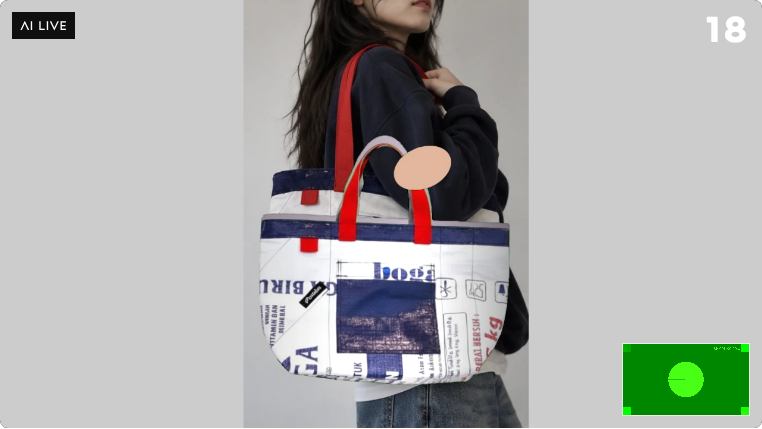
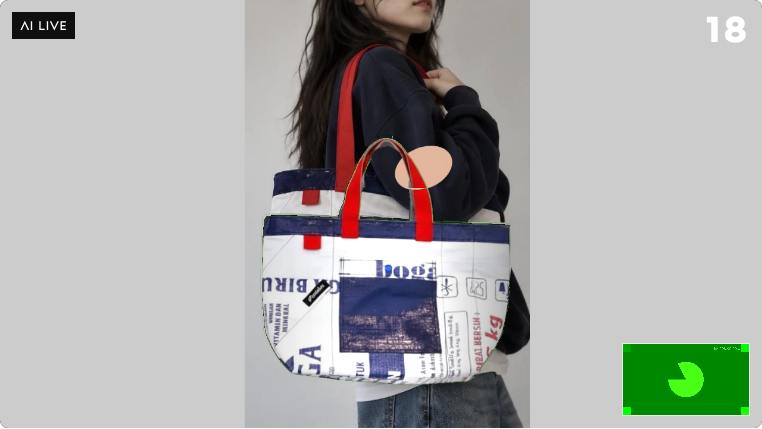
Design mapping: catch dull AI greens, keep the real product shape (#67)
- Green is found by hue/saturation/value, so a dull or pale AI green
  still counts (skin and denim never do).
- The real product is drawn at its own proportions inside the green box
  (bottom-aligned), so the shape on screen is the product's; green the AI
  drew outside that shape is filled from the colours beside it, eased down
  each column; hands in front stay in front.
- The green prompt also gives the product's size and written shape.

Claude-Session: https://claude.ai/code/session_015tYqeF95fcTMgYoMnwU8HY

diff --git a/src/v3/greenMap.ts b/src/v3/greenMap.ts
@@ -28,11 +28,20 @@ export function greenReference(product: HTMLCanvasElement, size = 640): Promise<
   return new Promise((ok, fail) => c.toBlob((b) => (b ? ok(b) : fail(new Error('reference'))), 'image/jpeg', 0.92));
 }
 
-/** How green a pixel is (0 = not, 1 = clearly chroma green), from its RGB. */
+/**
+ * How green a pixel is (0 = not, 1 = clearly the chroma green the AI was asked for). Hue/saturation
+ * based, so a dull or pale AI green still counts; skin (red-led) and denim (blue-led) never do.
+ */
 function greenness(r: number, g: number, b: number) {
-  const m = Math.max(r, b);
-  if (g < 60 || g - m < 30) return 0;
-  return Math.min(1, (g - m - 30) / 50);
+  if (g < r || g < b) return 0;
+  const mn = Math.min(r, b);
+  const c = g - mn;
+  if (c < 18) return 0;
+  const hue = 60 * ((b - r) / c) + 120; // 60 (yellow-green) … 180 (cyan-green)
+  if (hue < 72 || hue > 168) return 0;
+  const sat = c / g;
+  const val = g / 255;
+  return Math.min(1, Math.max(0, (sat - 0.22) / 0.18)) * Math.min(1, Math.max(0, (val - 0.14) / 0.14));
 }
 
 export interface DesignMapper {
@@ -40,20 +49,18 @@ export interface DesignMapper {
   draw(ctx: CanvasRenderingContext2D, src: CanvasImageSource, W: number, H: number): boolean;
 }
 
-/** A mapper for one product image (keyed, transparent background). */
+/**
+ * A mapper for one product image (keyed, transparent background). The product is drawn at its own
+ * proportions where the AI put the green bag, so the shape on screen is the real one; green the AI
+ * drew outside that shape is filled from the colours beside it; anything in front of the bag (a hand)
+ * stays in front.
+ */
 export function createDesignMapper(product: HTMLCanvasElement): DesignMapper {
-  // The product's dominant colour, for green the AI drew just outside the product's own outline.
-  const fill = (() => {
-    const d = product.getContext('2d', { willReadFrequently: true })!.getImageData(0, 0, product.width, product.height).data;
-    let r = 0, g = 0, b = 0, n = 0;
-    for (let i = 0; i < d.length; i += 16) if (d[i + 3] > 200) { r += d[i]; g += d[i + 1]; b += d[i + 2]; n++; }
-    return n ? [r / n, g / n, b / n] : [200, 200, 200];
-  })();
   const small = document.createElement('canvas');
   const sctx = small.getContext('2d', { willReadFrequently: true })!;
   const fit = document.createElement('canvas');
   const fctx = fit.getContext('2d', { willReadFrequently: true })!;
-  // Smoothed box so the design does not shake when the green edge flickers.
+  const aspect = product.width / product.height;
   let box: { x: number; y: number; w: number; h: number } | null = null;
   let miss = 0;
 
@@ -73,18 +80,17 @@ export function createDesignMapper(product: HTMLCanvasElement): DesignMapper {
       for (let y = 0; y < sh; y++)
         for (let x = 0; x < sw; x++) {
           const i = (y * sw + x) * 4;
-          if (greenness(sp[i], sp[i + 1], sp[i + 2]) > 0.3) {
+          if (greenness(sp[i], sp[i + 1], sp[i + 2]) > 0.35) {
             cols[x]++;
             rows[y]++;
             total++;
           }
         }
-      if (total < 40) {
+      if (total < 30) {
         if (++miss > 6) box = null;
         return false;
       }
       miss = 0;
-      // Trim 0.5% of green from each side so stray specks do not stretch the box (thin handles stay in).
       const edge = (arr: number[], from: boolean) => {
         let acc = 0;
         const lim = total * 0.005;
@@ -94,52 +100,109 @@ export function createDesignMapper(product: HTMLCanvasElement): DesignMapper {
       };
       const kx = W / sw;
       const ky = H / sh;
-      const next = { x: edge(cols, true) * kx, y: edge(rows, true) * ky, w: (edge(cols, false) - edge(cols, true) + 1) * kx, h: (edge(rows, false) - edge(rows, true) + 1) * ky };
+      const gx0 = edge(cols, true), gx1 = edge(cols, false), gy0 = edge(rows, true), gy1 = edge(rows, false);
+      const next = { x: gx0 * kx, y: gy0 * ky, w: (gx1 - gx0 + 1) * kx, h: (gy1 - gy0 + 1) * ky };
       const e = 0.35;
       box = box ? { x: box.x + (next.x - box.x) * e, y: box.y + (next.y - box.y) * e, w: box.w + (next.w - box.w) * e, h: box.h + (next.h - box.h) * e } : next;
 
-      // 2 · Full resolution inside the box (grown a little for edges).
-      const pad = Math.max(4, box.w * 0.06);
-      const x0 = Math.max(0, Math.floor(box.x - pad));
-      const y0 = Math.max(0, Math.floor(box.y - pad));
-      const x1 = Math.min(W, Math.ceil(box.x + box.w + pad));
-      const y1 = Math.min(H, Math.ceil(box.y + box.h + pad));
+      // 2 · The real product at its own proportions, fitted inside the green box (bottom-aligned: bags hang).
+      let pw = box.w;
+      let ph = pw / aspect;
+      if (ph > box.h) {
+        ph = box.h;
+        pw = ph * aspect;
+      }
+      const px = box.x + (box.w - pw) / 2;
+      const py = box.y + box.h - ph;
+      const pad = Math.max(6, box.w * 0.08);
+      const x0 = Math.max(0, Math.floor(Math.min(box.x, px) - pad));
+      const y0 = Math.max(0, Math.floor(Math.min(box.y, py) - pad));
+      const x1 = Math.min(W, Math.ceil(Math.max(box.x + box.w, px + pw) + pad));
+      const y1 = Math.min(H, Math.ceil(Math.max(box.y + box.h, py + ph) + pad));
       const bw = x1 - x0;
       const bh = y1 - y0;
       if (bw < 8 || bh < 8) return false;
       const frame = ctx.getImageData(x0, y0, bw, bh);
       const fp = frame.data;
-      // The product laid over the green box itself.
+      const orig = new Uint8ClampedArray(fp);
       fit.width = bw;
       fit.height = bh;
       fctx.clearRect(0, 0, bw, bh);
-      fctx.drawImage(product, box.x - x0, box.y - y0, box.w, box.h);
+      fctx.drawImage(product, px - x0, py - y0, pw, ph);
       const pp = fctx.getImageData(0, 0, bw, bh).data;
-      // Light and shadow: the green channel relative to its average over the bag.
+
+      // Light and shadow from the green, and per row the span the AI's bag covers.
       let gs = 0;
       let gn = 0;
-      for (let i = 0; i < fp.length; i += 4) if (greenness(fp[i], fp[i + 1], fp[i + 2]) > 0.5) { gs += fp[i + 1]; gn++; }
-      const gMean = gn ? gs / gn : 200;
-      for (let i = 0; i < fp.length; i += 4) {
-        const r = fp[i];
-        const g = fp[i + 1];
-        const b = fp[i + 2];
-        const a = greenness(r, g, b);
-        if (a <= 0) {
-          // Green spill on edges (hands, outline): pull green down to the other channels.
-          const m = Math.max(r, b);
-          if (g > m + 12) fp[i + 1] = m + 12;
-          continue;
+      const gmask = new Float32Array(bw * bh);
+      const spanL = new Int32Array(bh).fill(-1);
+      const spanR = new Int32Array(bh).fill(-1);
+      for (let y = 0; y < bh; y++)
+        for (let x = 0; x < bw; x++) {
+          const i = (y * bw + x) * 4;
+          const a = greenness(orig[i], orig[i + 1], orig[i + 2]);
+          gmask[y * bw + x] = a;
+          if (a > 0.5) {
+            gs += orig[i + 1];
+            gn++;
+            if (spanL[y] < 0) spanL[y] = x;
+            spanR[y] = x;
+          }
         }
-        const shade = Math.max(0.5, Math.min(1.3, g / gMean));
-        const pa = pp[i + 3] / 255;
-        // Inside the green but outside the product shape (the AI drew a slightly different outline): the product's main colour.
-        const pr = pp[i] * pa + fill[0] * (1 - pa);
-        const pg = pp[i + 1] * pa + fill[1] * (1 - pa);
-        const pb = pp[i + 2] * pa + fill[2] * (1 - pa);
-        fp[i] = Math.min(255, r * (1 - a) + pr * shade * a);
-        fp[i + 1] = Math.min(255, Math.max(r, b) * (1 - a) + pg * shade * a);
-        fp[i + 2] = Math.min(255, b * (1 - a) + pb * shade * a);
+      const gMean = gn ? gs / gn : 200;
+      // Fill colours are eased down each column so the patch reads as background, not streaks.
+      const prev = new Float32Array(bw * 3).fill(-1);
+
+      for (let y = 0; y < bh; y++) {
+        // Colours just outside the green on this row, to fill green the real shape does not cover.
+        const l = spanL[y];
+        const r = spanR[y];
+        const li = l > 3 ? (y * bw + l - 4) * 4 : -1;
+        const ri = r >= 0 && r < bw - 4 ? (y * bw + r + 4) * 4 : -1;
+        for (let x = 0; x < bw; x++) {
+          const j = y * bw + x;
+          const i = j * 4;
+          const a = gmask[j];
+          const pa = pp[i + 3] / 255;
+          const inSpan = l >= 0 && x >= l && x <= r;
+          if (pa > 0.02 && (a > 0 || !inSpan)) {
+            // Product pixel: over the green it takes the green's light; outside the AI bag it is drawn as is.
+            const shade = a > 0 ? Math.max(0.5, Math.min(1.3, orig[i + 1] / gMean)) : 1;
+            const k = a > 0 ? pa * Math.max(a, 0.6) : pa;
+            for (let ch = 0; ch < 3; ch++) fp[i + ch] = Math.min(255, orig[i + ch] * (1 - k) + pp[i + ch] * shade * k);
+            if (a > 0 && k < 1) {
+              const m = Math.max(fp[i], fp[i + 2]);
+              if (fp[i + 1] > m + 8) fp[i + 1] = m + 8;
+            }
+          } else if (a > 0) {
+            // Green outside the real shape: fill from beside it (blend left/right by position).
+            let fr = 200, fg = 200, fb = 200;
+            if (li >= 0 || ri >= 0) {
+              const t = li >= 0 && ri >= 0 ? (x - l) / Math.max(1, r - l) : li >= 0 ? 0 : 1;
+              const A = li >= 0 ? li : ri;
+              const B = ri >= 0 ? ri : li;
+              fr = orig[A] * (1 - t) + orig[B] * t;
+              fg = Math.min(orig[A + 1] * (1 - t) + orig[B + 1] * t, Math.max(fr, orig[A + 2]) + 10);
+              fb = orig[A + 2] * (1 - t) + orig[B + 2] * t;
+            }
+            const c = x * 3;
+            if (prev[c] >= 0) {
+              fr = prev[c] * 0.85 + fr * 0.15;
+              fg = prev[c + 1] * 0.85 + fg * 0.15;
+              fb = prev[c + 2] * 0.85 + fb * 0.15;
+            }
+            prev[c] = fr;
+            prev[c + 1] = fg;
+            prev[c + 2] = fb;
+            fp[i] = orig[i] * (1 - a) + fr * a;
+            fp[i + 1] = Math.max(orig[i], orig[i + 2]) * (1 - a) + fg * a;
+            fp[i + 2] = orig[i + 2] * (1 - a) + fb * a;
+          } else {
+            // Edges and hands: remove green spill.
+            const m = Math.max(orig[i], orig[i + 2]);
+            if (orig[i + 1] > m + 14 && greenness(orig[i], orig[i + 1], orig[i + 2]) === 0 && orig[i + 1] - m < 40) fp[i + 1] = m + 14;
+          }
+        }
       }
       ctx.putImageData(frame, x0, y0);
       return true;

diff --git a/src/v3/LiveTryOn.tsx b/src/v3/LiveTryOn.tsx
@@ -16,9 +16,12 @@ function promptFor(product: Product, stylePrompt: string, description?: string) 
 }
 
 /** Design mapping: the AI draws the product as a flat green bag of its exact shape; the real design goes on top. */
-function greenPromptFor(product: Product, stylePrompt: string) {
+function greenPromptFor(product: Product, stylePrompt: string, description?: string) {
   const kind = (product.category.value ?? '').toLowerCase().includes('bag') ? 'bag' : 'item';
-  return `Add a ${kind} with exactly the shape of the green ${kind} in the reference image, ${stylePrompt}. The ${kind} is plain flat chroma-key green (#00FF00) all over: no print, no logo, no texture, no other colour. It is an accessory, not clothing: do not change the person's clothes. Keep the person and background unchanged.`;
+  const dims = product.dimensions.widthCm ? ` about ${product.dimensions.widthCm} cm wide and ${product.dimensions.heightCm ?? ''} cm tall,` : '';
+  // The written description pins the outline (its colours are ignored: the bag must stay green).
+  const shape = description ? ` Its shape (ignore the colours): ${description}` : '';
+  return `Add a ${kind} with exactly the outline of the green ${kind} in the reference image,${dims} ${stylePrompt}.${shape} The ${kind} is plain flat chroma-key green (#00FF00) all over: no print, no logo, no texture, no other colour. It is an accessory, not clothing: do not change the person's clothes. Keep the person and background unchanged.`;
 }
 
 /** Bounding box of the non-white pixels, so the reference is the product and not mostly empty background. */
@@ -134,7 +137,7 @@ export function LiveTryOn({
   // A new product or way of wearing it while live: send the new instruction without reconnecting.
   useEffect(() => {
     if (phase === 'live' && product)
-      void session.current?.setPrompt(mapOn ? greenPromptFor(product, stylePrompt) : promptFor(product, stylePrompt, garment.current?.description)).catch(() => undefined);
+      void session.current?.setPrompt(mapOn ? greenPromptFor(product, stylePrompt, garment.current?.description) : promptFor(product, stylePrompt, garment.current?.description)).catch(() => undefined);
   }, [stylePrompt, product, phase, mapOn]);
 
   // Mapping loop: AI frame in, real design on the green bag out.
@@ -228,7 +231,7 @@ export function LiveTryOn({
       try {
         if (mapOn && ref.green && ref.product) {
           mapper.current = createDesignMapper(ref.product);
-          await conn.setImage(ref.green, { prompt: greenPromptFor(product, stylePrompt), enhance: false });
+          await conn.setImage(ref.green, { prompt: greenPromptFor(product, stylePrompt, ref.description), enhance: false });
         } else await conn.setImage(ref.blob, { prompt: promptFor(product, stylePrompt, ref.description), enhance: false });
       } catch (e) {
         throw new Error(`제품 이미지를 AI에 전달하지 못했습니다: ${(e as Error).message}`);
